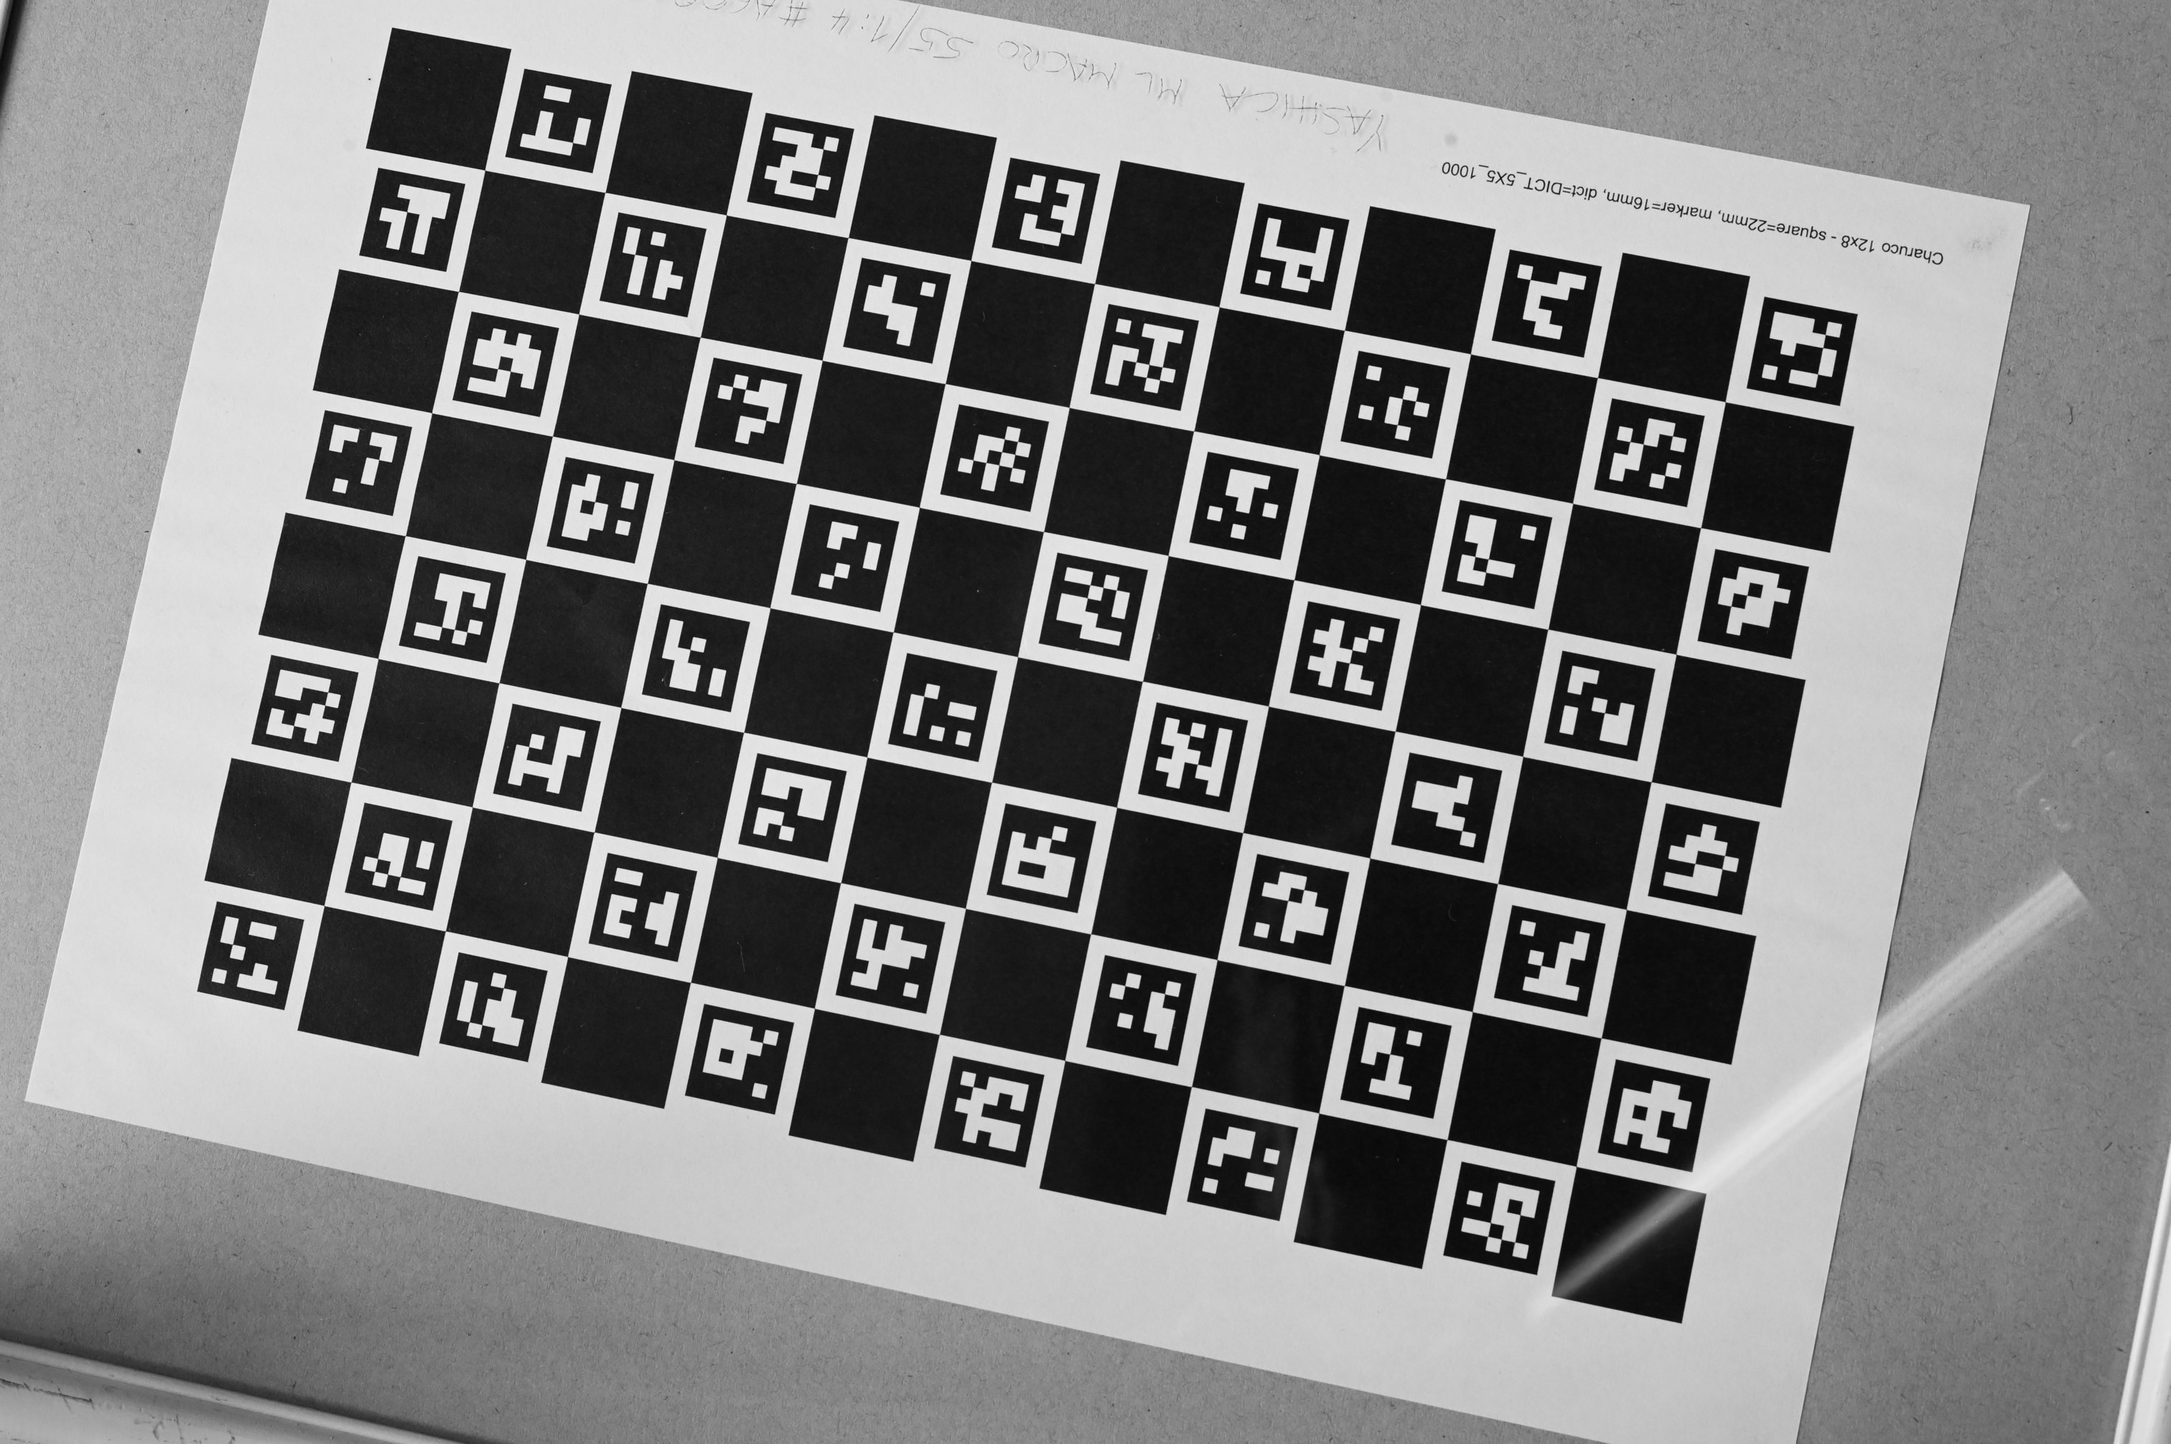
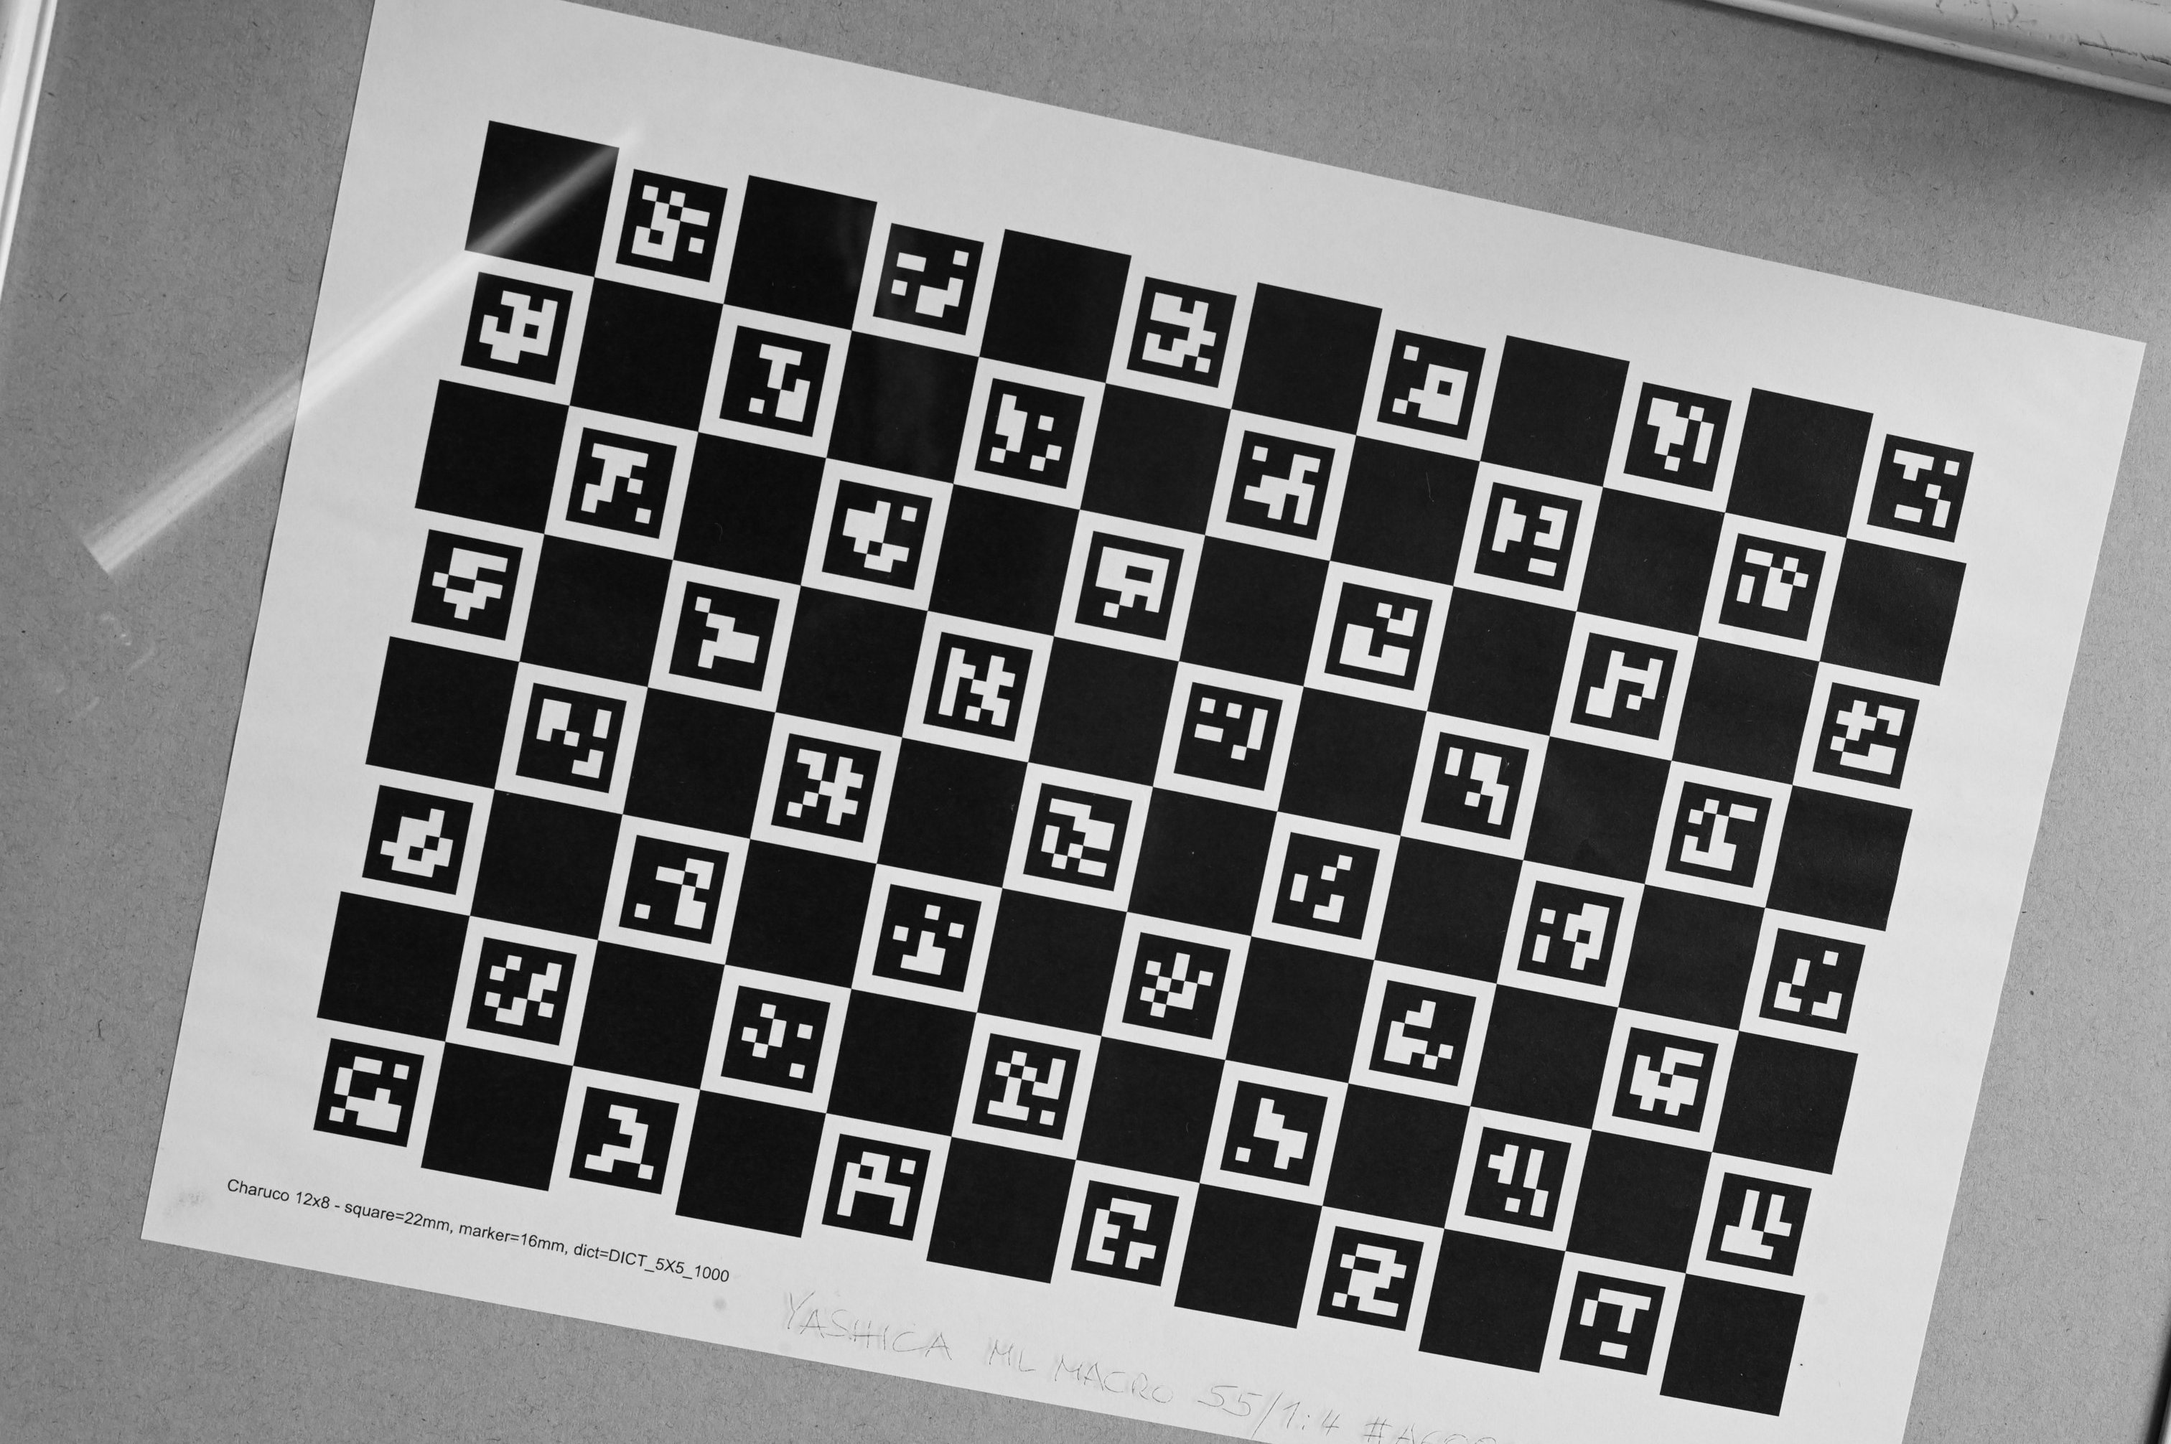
Cleaned up ArucoDetector, added IJ plugin.

diff --git a/imagingbook-jaruco/src/main/java/imagingbook/jaruco/Main.java b/imagingbook-jaruco/src/main/java/imagingbook/jaruco/Main.java
@@ -13,6 +13,8 @@ import java.util.ArrayList;
 import java.util.Collections;
 import java.util.List;
 
+import static imagingbook.jaruco.Polygons.getPolygonPath;
+
 public class Main {
 
     // ------------------------------------------------------------------------
@@ -21,6 +23,9 @@ public class Main {
     // "C:/_GITHUB/imagingbook-super/imagingbook-calibrate/imagingbook_calibrate_plugins/aruco-images/DSC_2702_small.jpg";
 
     static String SAMPLE_IMAGE_DIR = "C:/_GITHUB/imagingbook-super/imagingbook-calibrate/imagingbook-jaruco/src/main/resources/imagingbook/jaruco/sample-images/";
+
+    private static final Font MarkerFont = new Font(Font.SANS_SERIF, Font.BOLD, 32);
+    private static final Color MarkerColor = Color.magenta;
 
     static void doBigImageTest() {
         String IMG_PATH = SAMPLE_IMAGE_DIR + "all-markers-small.jpg";
@@ -40,10 +45,11 @@ public class Main {
 
     static void doSmallImageTest() {
         String[] paths = {
-                SAMPLE_IMAGE_DIR + "single-marker-5-0.jpg",
-                SAMPLE_IMAGE_DIR + "single-marker-5-1.jpg",
-                SAMPLE_IMAGE_DIR + "single-marker-5-2.jpg",
-                SAMPLE_IMAGE_DIR + "single-marker-5-3.jpg",
+                // SAMPLE_IMAGE_DIR + "single-marker-5-0.jpg",
+                // SAMPLE_IMAGE_DIR + "single-marker-5-1.jpg",
+                // SAMPLE_IMAGE_DIR + "single-marker-5-2.jpg",
+                // SAMPLE_IMAGE_DIR + "single-marker-5-3.jpg",
+                SAMPLE_IMAGE_DIR + "all-markers-small.jpg",
         };
 
         ImagePlus[] images = new ImagePlus[paths.length];
@@ -64,10 +70,10 @@ public class Main {
             List<ArucoDetector.MarkerDetectionResult> markerDetectionResults = detector.detectMarkers(im.getProcessor());
             System.out.println("Markers found: " + markerDetectionResults.size());
 
+            ShapeOverlayAdapter ola = new ShapeOverlayAdapter();
 
-            if (!markerDetectionResults.isEmpty())
-            {
-                ArucoDetector.MarkerDetectionResult res = markerDetectionResults.get(0);
+            for (ArucoDetector.MarkerDetectionResult res : markerDetectionResults) {
+                // ArucoDetector.MarkerDetectionResult res = markerDetectionResults.get(0);
                 System.out.println(res);
                 // create shape overlay
 
@@ -75,7 +81,6 @@ public class Main {
                 // Collections.rotate(corners, res.rotation);
                 //List<Pnt2d> corners = rotateCorners(corners, res.rotation);
 
-                ShapeOverlayAdapter ola = new ShapeOverlayAdapter();
                 ola.addShape(getPolygonPath(corners, 0, 0), stroke);
 
                 double rad = 2;
@@ -87,13 +92,16 @@ public class Main {
                     j++;
                 }
 
-                im.setOverlay(ola.getOverlay());
-                im.setTitle(im.getTitle() + " rot=" + res.rotation);
-                im.updateAndDraw();
+                // draw the marker's id number
+                Pnt2d center = Polygons.getCentroid(corners);
+                ola.setFont(MarkerFont);
+                ola.setTextColor(MarkerColor);
+                ola.addText(center.getX(), center.getY(), Integer.toString(res.markerId));
             }
-            else {
-                System.out.println("Nothing found!");
-            }
+
+            im.setOverlay(ola.getOverlay());
+            // im.setTitle(im.getTitle() + " rot=" + res.rotation);
+            im.updateAndDraw();
         }
     }
 
@@ -106,26 +114,26 @@ public class Main {
         return corners2;
     }
 
-    static Path2D getPolygonPath(List<Pnt2d> contour, double xOffset, double yOffset) {
-        Path2D path = new Path2D.Float();
-        Pnt2d[] pnts = contour.toArray(new Pnt2d[0]);
-        if (pnts.length > 1) {
-            path.moveTo(pnts[0].getX() + xOffset, pnts[0].getY() + yOffset);
-            for (int i = 1; i < pnts.length; i++) {
-                path.lineTo(pnts[i].getX() + xOffset,  pnts[i].getY() + yOffset);
-            }
-            path.closePath();
-        }
-        else {	// special case: mark a single pixel region "X"
-            double x = pnts[0].getX();
-            double y = pnts[0].getY();
-            path.moveTo(x + xOffset - 0.5, y + yOffset - 0.5);
-            path.lineTo(x + xOffset + 0.5, y + yOffset + 0.5);
-            path.moveTo(x + xOffset - 0.5, y + yOffset + 0.5);
-            path.lineTo(x + xOffset + 0.5, y + yOffset - 0.5);
-        }
-        return path;
-    }
+    // static Path2D getPolygonPath(List<Pnt2d> contour, double xOffset, double yOffset) {
+    //     Path2D path = new Path2D.Float();
+    //     Pnt2d[] pnts = contour.toArray(new Pnt2d[0]);
+    //     if (pnts.length > 1) {
+    //         path.moveTo(pnts[0].getX() + xOffset, pnts[0].getY() + yOffset);
+    //         for (int i = 1; i < pnts.length; i++) {
+    //             path.lineTo(pnts[i].getX() + xOffset,  pnts[i].getY() + yOffset);
+    //         }
+    //         path.closePath();
+    //     }
+    //     else {	// special case: mark a single pixel region "X"
+    //         double x = pnts[0].getX();
+    //         double y = pnts[0].getY();
+    //         path.moveTo(x + xOffset - 0.5, y + yOffset - 0.5);
+    //         path.lineTo(x + xOffset + 0.5, y + yOffset + 0.5);
+    //         path.moveTo(x + xOffset - 0.5, y + yOffset + 0.5);
+    //         path.lineTo(x + xOffset + 0.5, y + yOffset - 0.5);
+    //     }
+    //     return path;
+    // }
 
     public static void main(String[] args) {
         // doBigImageTest();

diff --git a/imagingbook-jaruco/src/main/java/imagingbook/jaruco/ArucoDetector.java b/imagingbook-jaruco/src/main/java/imagingbook/jaruco/ArucoDetector.java
@@ -23,7 +23,6 @@ import static imagingbook.jaruco.Polygons.simplify;
 
 import imagingbook.common.util.bits.BitVector;
 import imagingbook.jaruco.ArucoDictionary.LookupResult;
-import imagingbook.jaruco.gui.ZoomableImagePlus;
 
 public class ArucoDetector {
 
@@ -85,12 +84,12 @@ public class ArucoDetector {
      * Originally this is the raw contour which is subsequently simplified.
      * Instances are immutable.
      */
-    static class MarkerOutline {
+    public static class MarkerOutline {
         static int MARKER_UID = -1;
-
-        final int uid;          // each marker has a uid for debugging
-        final int threshold;    // gray-level threshold at which this outline was obtained
-        final List<Pnt2d> polygon;  // marker corners in original image coordinates
+        // TODO: add getter methods!
+        public final int uid;          // each marker has a uid for debugging
+        public final int threshold;    // gray-level threshold at which this outline was obtained
+        public final List<Pnt2d> polygon;  // marker corners in original image coordinates
 
         // Full constructor.
         MarkerOutline(int uid, int threshold, List<Pnt2d> polygon) {
@@ -122,11 +121,12 @@ public class ArucoDetector {
      * Represents the detection result for a single marker.
      */
     public static class MarkerDetectionResult {
-        final int markerId;
-        final int rotation;
-        final int hammingDist;
-        final MarkerOutline corners;
-        final Pnt2d[] rejectedPoints;
+        // TODO: add getter methods!
+        public final int markerId;
+        public final int rotation;
+        public final int hammingDist;
+        public final MarkerOutline corners;
+        public final Pnt2d[] rejectedPoints;
 
         // Constructor (private).
         private MarkerDetectionResult(int markerId, int rotation, int hDist, MarkerOutline corners, Pnt2d[] rejectedPoints) {
@@ -198,7 +198,7 @@ public class ArucoDetector {
     /**
      * The core method. Tries to locate and identify markers in the given image.
      * @param ip the input image
-     * @return
+     * @return a (possibly empty) list of {@link MarkerDetectionResult} instances
      */
     public List<MarkerDetectionResult> detectMarkers(ImageProcessor ip) {
         // STEP 1: convert input image to grayscale:
@@ -206,21 +206,20 @@ public class ArucoDetector {
         List<MarkerDetectionResult> markerDetectionResults = new ArrayList<>();
         MarkerOutline.resetUid();
 
-        // try different thresholds:
+        // try different global thresholds (Aruco3) or use adaptive local threshold:
         int initThr = Math.round(new OtsuThresholder().getThreshold(gray));
+
         for (int thr = initThr; thr <= initThr; thr++) {
 
             // STEP 2: Threshold the input image and find candidate outlines
-            List<MarkerOutline> ics = findCandidateOutlines(gray, thr);
+            List<MarkerOutline> contours = findCandidateOutlines(gray, thr);
 
             // STEP 3: Simplify inner contours to polygons
-            List<MarkerOutline> candidateBoxes = simplifyContours(ics);
+            List<MarkerOutline> candidateOutlines = simplifyContours(contours);
 
             // STEP 4: Process each candidate box and collect the results
-
-            int k = 0;
-            for (MarkerOutline candidateBox : candidateBoxes) {
-                MarkerDetectionResult dr = processOneOutline(ip, candidateBox, k++);
+            for (MarkerOutline outline : candidateOutlines) {
+                MarkerDetectionResult dr = processOneOutline(ip, outline);
                 if (dr != null) {
                     markerDetectionResults.add(dr);
                 }
@@ -277,14 +276,14 @@ public class ArucoDetector {
         return candidateOutlines;
     }
 
-    MarkerDetectionResult processOneOutline(ImageProcessor ip, MarkerOutline markerOutline, int k) {
+    MarkerDetectionResult processOneOutline(ImageProcessor ip, MarkerOutline markerOutline) {
         // System.out.println("processOneCandidateBox " + k);
         // STEP 4a - CORNER REFINEMENT should come here!
 
         // STEP 4b - extract a small rectified subimage
         int targetSize = 5 * (this.dictionary.getMarkerSize() + 2); // fields with 5x5 pixels (parameter!?)
         ByteProcessor markerIp = extractMarkerImage(ip, markerOutline, targetSize);
-        new ZoomableImagePlus("Marker raw" + k, markerIp.duplicate()).show(20);
+        // new ZoomableImagePlus("Marker raw" + k, markerIp.duplicate()).show(20);
 
         // STEP 4c - sample marker fields to generate the 1D marker pattern
         BitVector sampleBits = extractMarkerBits(markerIp, markerOutline.threshold);

diff --git a/imagingbook_calibrate_plugins/src/main/java/Aruco_Plugins/Aruco_Detect_Plugin.java b/imagingbook_calibrate_plugins/src/main/java/Aruco_Plugins/Aruco_Detect_Plugin.java
@@ -1,0 +1,90 @@
+/*******************************************************************************
+ * Permission to use and distribute this software is granted under the BSD 2-Clause
+ * "Simplified" License (see http://opensource.org/licenses/BSD-2-Clause).
+ * Copyright (c) 2016-2023 Wilhelm Burger. All rights reserved.
+ * Visit https://imagingbook.com for additional details.
+ ******************************************************************************/
+package Aruco_Plugins;
+
+import ij.ImagePlus;
+import ij.io.LogStream;
+import ij.plugin.filter.PlugInFilter;
+import ij.process.ImageProcessor;
+import imagingbook.common.geometry.basic.Pnt2d;
+import imagingbook.common.ij.overlay.ColoredStroke;
+import imagingbook.common.ij.overlay.ShapeOverlayAdapter;
+import imagingbook.jaruco.ArucoDetector;
+import imagingbook.jaruco.ArucoDictionary;
+import imagingbook.jaruco.ArucoPredefinedDictionary;
+import imagingbook.jaruco.Polygons;
+
+import java.awt.Color;
+import java.awt.Font;
+import java.awt.geom.Ellipse2D;
+import java.util.List;
+
+import static imagingbook.jaruco.Polygons.getPolygonPath;
+
+/**
+ * First test of ArUco functionality.
+ *
+ * @author WB
+ * @version 2025/12/01
+ */
+public class Aruco_Detect_Plugin implements PlugInFilter {
+    static String SAMPLE_IMAGE_DIR = "C:/_GITHUB/imagingbook-super/imagingbook-calibrate/imagingbook-jaruco/src/main/resources/imagingbook/jaruco/sample-images/";
+
+    private static final Font MarkerFont = new Font(Font.SANS_SERIF, Font.BOLD, 32);
+    private static final Color MarkerColor = Color.green.darker();
+
+    static {
+        LogStream.redirectSystem();    // redirects System.out and System.err streams to IJ.log
+    }
+
+    private ImagePlus im;
+
+    @Override
+    public int setup(String s, ImagePlus im) {
+        this.im = im;
+        return DOES_8G + DOES_RGB;
+    }
+
+    @Override
+    public void run(ImageProcessor imageProcessor) {
+        ArucoDictionary dict = ArucoPredefinedDictionary.DICT_5X5_1000.getInstance();
+        ArucoDetector detector = new ArucoDetector(dict);
+
+        ColoredStroke stroke = new ColoredStroke(1.0, Color.blue);
+        ColoredStroke stroke0 = new ColoredStroke(1.0 * 3, Color.red);
+
+
+        List<ArucoDetector.MarkerDetectionResult> markerDetectionResults = detector.detectMarkers(im.getProcessor());
+        // System.out.println("Markers found: " + markerDetectionResults.size());
+
+        ShapeOverlayAdapter ola = new ShapeOverlayAdapter();
+
+        for (ArucoDetector.MarkerDetectionResult res : markerDetectionResults) {
+            List<Pnt2d> corners = res.corners.polygon;
+            ola.addShape(getPolygonPath(corners, 0, 0), stroke);
+
+            double rad = 2;
+            int j = 0;
+            for (Pnt2d p : corners) {
+                double x = p.getX() - rad;
+                double y = p.getY() - rad;
+                ola.addShape(new Ellipse2D.Double(x, y, 2 * rad, 2 * rad), j == 0 ? stroke0 : stroke);
+                j++;
+            }
+
+            // draw the marker's id number
+            Pnt2d center = Polygons.getCentroid(corners);
+            ola.setFont(MarkerFont);
+            ola.setTextColor(MarkerColor);
+            ola.addText(center.getX(), center.getY(), Integer.toString(res.markerId));
+        }
+
+        im.setOverlay(ola.getOverlay());
+        // im.setTitle(im.getTitle() + " rot=" + res.rotation);
+        im.updateAndDraw();
+    }
+}

diff --git a/imagingbook-jaruco/src/main/java/imagingbook/jaruco/Polygons.java b/imagingbook-jaruco/src/main/java/imagingbook/jaruco/Polygons.java
@@ -8,6 +8,7 @@ package imagingbook.jaruco;
 
 import imagingbook.common.geometry.basic.Pnt2d;
 
+import java.awt.geom.Path2D;
 import java.util.ArrayDeque;
 import java.util.ArrayList;
 import java.util.Deque;
@@ -264,5 +265,25 @@ public class Polygons {
         return missCnt == 0;
     }
 
+    public static Path2D getPolygonPath(List<Pnt2d> contour, double xOffset, double yOffset) {
+        Path2D path = new Path2D.Float();
+        Pnt2d[] pnts = contour.toArray(new Pnt2d[0]);
+        if (pnts.length > 1) {
+            path.moveTo(pnts[0].getX() + xOffset, pnts[0].getY() + yOffset);
+            for (int i = 1; i < pnts.length; i++) {
+                path.lineTo(pnts[i].getX() + xOffset,  pnts[i].getY() + yOffset);
+            }
+            path.closePath();
+        }
+        else {	// special case: mark a single pixel region "X"
+            double x = pnts[0].getX();
+            double y = pnts[0].getY();
+            path.moveTo(x + xOffset - 0.5, y + yOffset - 0.5);
+            path.lineTo(x + xOffset + 0.5, y + yOffset + 0.5);
+            path.moveTo(x + xOffset - 0.5, y + yOffset + 0.5);
+            path.lineTo(x + xOffset + 0.5, y + yOffset - 0.5);
+        }
+        return path;
+    }
 
 }
